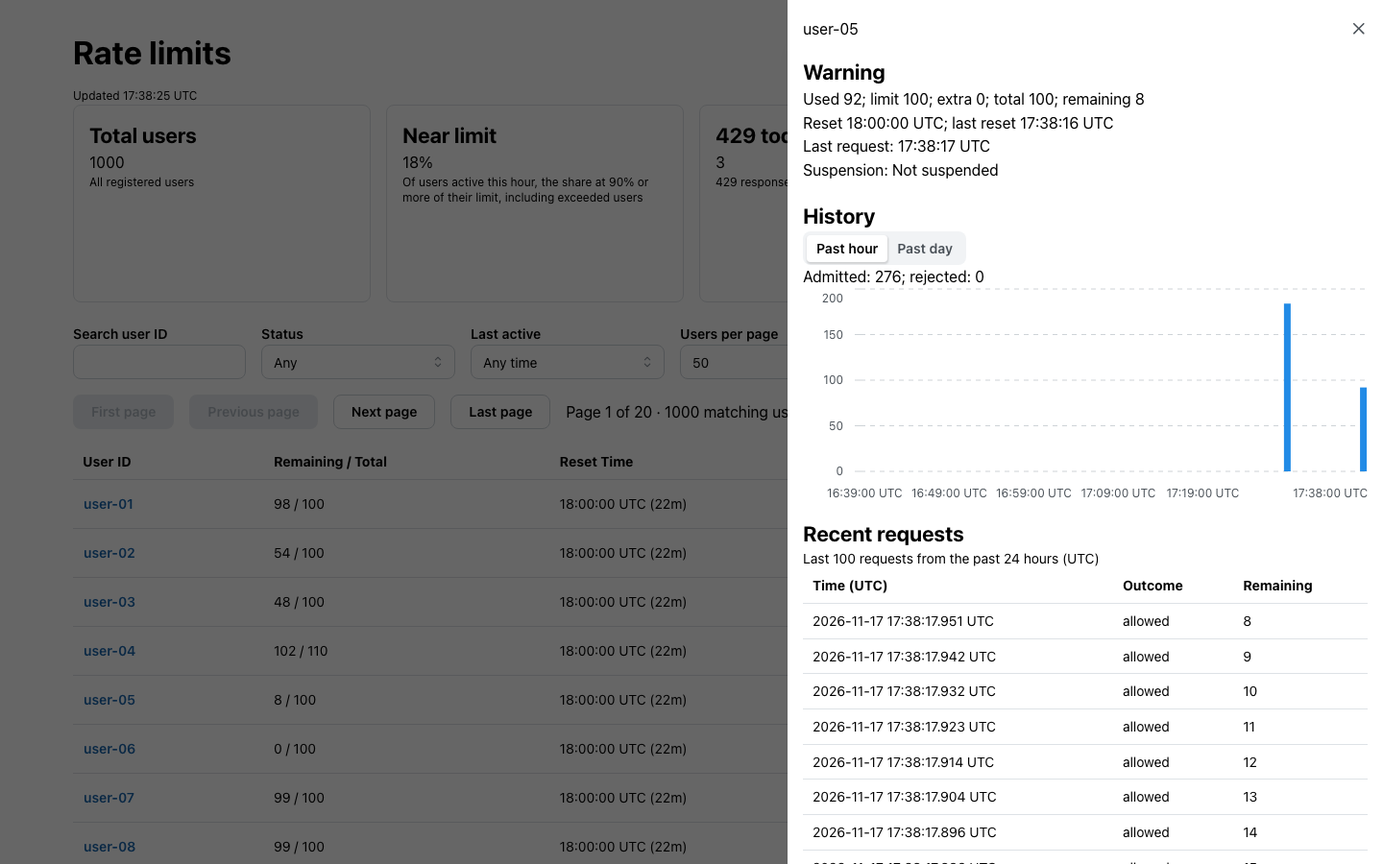
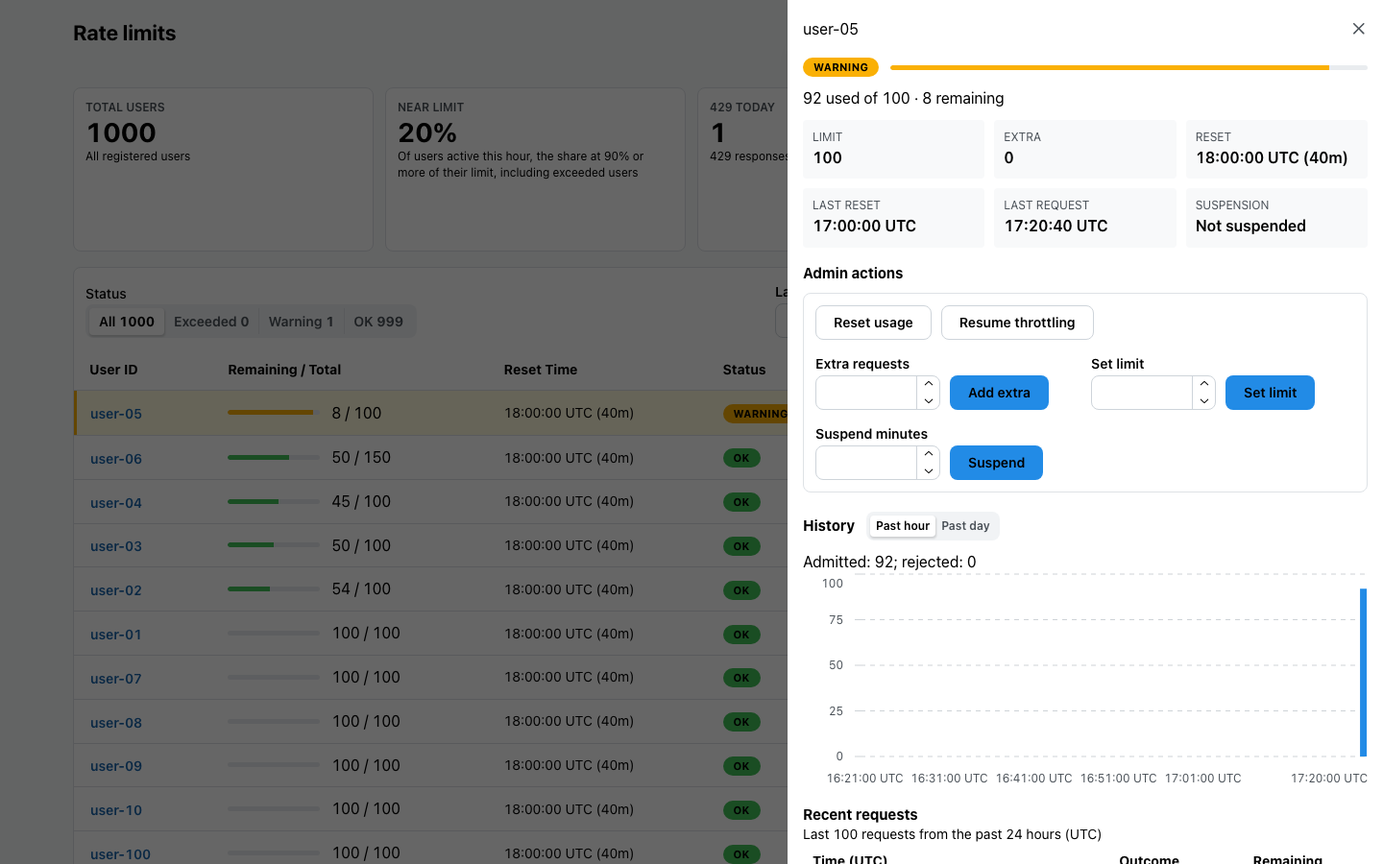
Verification record, read times and README pictures for the closest-first order
The record gains two dated sections. The branch's commits were combined
into three before its review, so its runs name the tree they ran on.

Closest-first order and row actions, at tree 5e7ea13: build, lint, both
test suites, the fixture check, the integration suite five times, the
two-process check and the population check three times each, each run
alone, and a pass of 15 items in Chromium against the built application.
The pass covers the order against the API's, the status counts, a row's
"Add extra" and "Reset usage", a failed row action with Redis paused, where
the focus goes afterwards, the held order under a resting pointer and under
keyboard focus, a 64-character ID and the error's "Dismiss" button. The
read times are taken again with the new order beside them, and the README
charts the new medians and shows the new page and panel.

Held rows, at tree 7597ca3, whose `apps`, `packages` and `scripts` are
those of the commit before this one: build, lint, both test suites (306 and
182) and the fixture check; the integration suite and the two-process check
once each, as the API is unchanged. A second agent, which did not write the
change, ran four browser checks in Chrome on a clean export of that tree: a
click that does not move still resets the user it pointed at after the row
above left the page; an open "Extra requests" field shows a grant made
elsewhere and keeps the number typed, also when the grant falls into a cut
[…]

diff --git a/docs/VERIFICATION.md b/docs/VERIFICATION.md
@@ -16,12 +16,21 @@ results only. A check that is not listed here was not run.
 | Redis        | 8.10.3 (`redis:8-alpine`), one instance in Docker, used by nothing else during the runs                                                                                                                                                                                                                                                                                                                                                                                                                                                                                                                                                                                          |
 | Browser      | Chromium 151.0.7922.34 driven by Playwright, headless, 1440 by 900 pixels                                                                                                                                                                                                                                                                                                                                                                                                                                                                                                                                                                                                        |
 
+Runs made on the branch `dashboard-triage` name the tree they ran on, as
+`git rev-parse HEAD^{tree}` printed it. The commits of that branch were
+combined into three before its review, so each of those trees is a state of
+the work as it went and not a commit of this repository.
+
 ## Automated checks
 
 Commands as in the [README](../README.md#verification), from a fresh checkout
 after `npm ci`, run one after another on a Redis server of their own. That
 server listened on another free port than the README's 6380; nothing else
-differed.
+differed. Seven of these commands were repeated on 2026-11-18 after the
+closest-first order was added; their newer results are under
+[Closest-first order and row actions](#closest-first-order-and-row-actions),
+and the table below keeps the full run. Six were run again on 2026-11-19 for
+the change under [Held rows](#held-rows).
 
 | Command                            | What it runs                                                                                                                                                                                           | Result                                                                                                                                                                                                                 |
 | ---------------------------------- | ------------------------------------------------------------------------------------------------------------------------------------------------------------------------------------------------------ | ---------------------------------------------------------------------------------------------------------------------------------------------------------------------------------------------------------------------- |
@@ -99,30 +108,38 @@ count stayed 0 and the start time stayed the same for both.
 
 ### Reads by number of users
 
-`npm run check:population`, three runs. Each figure is taken over ten
-sequential requests to one admin route, timed in the script from sending the
-request to the parsed JSON body, while one sample request every 50 ms goes to
-the same API. It is the time an admin client waits on one machine, not
-admission latency and not a load test. "Page" is `GET /api/admin/users?page=10`,
-"filter" is `?status=OK&search=user`, which matches every user and so reads
-them all, and "analytics" is `GET /api/admin/analytics`. "Seed" is the time
-to register users 1 to N in the script's own process; at 10000 it finds the
-first 1000 present and adds 9000. "Redis memory" is `used_memory` of the whole
-test server after the reads, the server's own baseline included.
+`npm run check:population`, three runs on 2026-11-18 at tree `5e7ea13`,
+with the page ordered closest to the limit beside the others. Each figure is taken over
+ten sequential requests to one admin route, timed in the script from sending
+the request to the parsed JSON body, while one sample request every 50 ms goes
+to the same API. It is the time an admin client waits on one machine, not
+admission latency and not a load test. "Page" is
+`GET /api/admin/users?page=10`, "filter" is `?status=OK&search=user`, which
+matches every user and so reads them all, "closest" is `?sort=closest`, the
+order the dashboard asks for by default, and "analytics" is
+`GET /api/admin/analytics`. "Seed" is the time to register users 1 to N in the
+script's own process; at 10000 it finds the first 1000 present and adds 9000.
+"Redis memory" is `used_memory` of the whole test server after the reads, the
+server's own baseline included.
 
-| Run | Users | Seed     | Page, median / max | Filter, median / max | Analytics, median / max | Redis memory | Sample requests, all admitted |
-| --- | ----- | -------- | ------------------ | -------------------- | ----------------------- | ------------ | ----------------------------- |
-| 1   | 1000  | 52.4 ms  | 4.5 / 9.4 ms       | 25.7 / 138.1 ms      | 23.1 / 142.4 ms         | 2,746,960 B  | 13                            |
-| 1   | 10000 | 319.1 ms | 2.9 / 4.1 ms       | 136.0 / 277.6 ms     | 128.2 / 139.3 ms        | 5,530,912 B  | 52                            |
-| 2   | 1000  | 52.5 ms  | 3.8 / 7.6 ms       | 18.6 / 41.9 ms       | 16.8 / 24.1 ms          | 2,747,592 B  | 8                             |
-| 2   | 10000 | 243.7 ms | 3.2 / 3.5 ms       | 129.6 / 315.6 ms     | 132.3 / 214.9 ms        | 5,538,744 B  | 54                            |
-| 3   | 1000  | 54.0 ms  | 3.8 / 6.0 ms       | 18.1 / 24.2 ms       | 17.7 / 33.8 ms          | 2,745,128 B  | 8                             |
-| 3   | 10000 | 358.4 ms | 2.7 / 3.3 ms       | 125.1 / 202.4 ms     | 124.6 / 147.7 ms        | 5,528,728 B  | 48                            |
+| Run | Users | Seed     | Page, median / max | Filter, median / max | Closest, median / max | Analytics, median / max | Redis memory | Sample requests, all admitted |
+| --- | ----- | -------- | ------------------ | -------------------- | --------------------- | ----------------------- | ------------ | ----------------------------- |
+| 1   | 1000  | 48.5 ms  | 3.5 / 7.9 ms       | 17.4 / 19.8 ms       | 15.7 / 25.2 ms        | 14.4 / 15.1 ms          | 2,847,048 B  | 10                            |
+| 1   | 10000 | 214.8 ms | 2.9 / 3.0 ms       | 143.4 / 190.4 ms     | 125.2 / 131.5 ms      | 130.8 / 213.2 ms        | 5,639,848 B  | 78                            |
+| 2   | 1000  | 46.1 ms  | 3.4 / 6.6 ms       | 16.8 / 23.9 ms       | 15.6 / 20.2 ms        | 17.3 / 21.7 ms          | 2,844,112 B  | 11                            |
+| 2   | 10000 | 230.9 ms | 3.7 / 3.8 ms       | 130.0 / 214.4 ms     | 131.4 / 181.4 ms      | 150.0 / 223.9 ms        | 5,639,392 B  | 83                            |
+| 3   | 1000  | 42.9 ms  | 3.4 / 6.3 ms       | 14.6 / 18.7 ms       | 14.8 / 15.1 ms        | 13.7 / 19.0 ms          | 2,842,656 B  | 9                             |
+| 3   | 10000 | 196.0 ms | 2.6 / 3.0 ms       | 129.8 / 136.9 ms     | 133.8 / 170.2 ms      | 166.0 / 196.0 ms        | 5,638,776 B  | 79                            |
 
-An unfiltered page reads only its own rows and does not grow with the number
-of users; a filtered page and the analytics read every registered user and
-took about seven times as long at ten times the users. The medians are
-charted in the [README](../README.md#verification).
+An unfiltered page in ID order reads only its own rows and does not grow with
+the number of users. A filtered page, a page ordered closest to the limit and
+the analytics read every registered user and took eight to twelve times as
+long at ten times the users. The first page in closest-first order, which
+keeps 50 rows between batches, took what a filtered page took; a page far
+down, which keeps more, was not timed. The medians are charted in the
+[README](../README.md#verification). The dashboard asks for the closest-first
+page and the analytics on every snapshot, every 10 seconds per open
+dashboard: two reads of 125 to 166 ms each at 10000 users.
 
 ## In a browser
 
@@ -164,6 +181,123 @@ The other run modes of the [README](../README.md#run-it):
 | Dashboard alone | `VITE_FIXTURES=1 npm run dev -w apps/web` with nothing on port 3000                                                                            | The token form, which any token passes; then 12 fixture rows at OK, Warning and Exceeded, the cards and "LIVE"; no request to `/api` or `/socket.io` left the browser | Pass                     |
 | One origin      | Not run by hand                                                                                                                                | The integration file `one-origin.e2e-spec.ts` serves the built page, the API and the socket from one process                                                          | Not checked in a browser |
 
+## Closest-first order and row actions
+
+Run on 2026-11-18 on the machine of
+[Revision and environment](#revision-and-environment), at tree `5e7ea13` of
+the branch `dashboard-triage`, which holds the fixes of that branch's review,
+on a Redis server of its own at port 6380. The commands and the browser
+passes ran one after another, never together: the Socket.IO adapter's
+channels are not separated by Redis database number, so a dashboard open
+while the integration suite uses the same server shows that suite's events.
+That was seen once, and that pass was thrown away and repeated.
+
+| Command                     | Result                                                                                                         |
+| --------------------------- | -------------------------------------------------------------------------------------------------------------- |
+| `npm run build`             | Exit 0, with Vite's notice about the size of the dashboard's JavaScript file as before                         |
+| `npm run lint`              | Exit 0, nothing reported                                                                                       |
+| `npm test`                  | Exit 0. API: 306 tests in 17 files passed. Dashboard: 174 tests in 15 files passed                             |
+| `npm run check:contracts`   | Exit 0, `fixtures consistent: 138 checks passed`                                                               |
+| `npm run test:integration`  | Five runs in a row, each exit 0: 84 tests in 14 files passed, in 30 to 31 s                                    |
+| `npm run check:two-process` | Three runs, each exit 0 in 3 to 4 s, printing the five lines shown under [Automated checks](#automated-checks) |
+| `npm run check:population`  | Three runs, each exit 0; figures under [Reads by number of users](#reads-by-number-of-users)                   |
+
+Not repeated: `docker compose up --build --wait` and the 14 browser items of
+[In a browser](#in-a-browser). Those items describe the page before this
+change: its "First" and "Last" paging buttons no longer exist, and the admin
+actions of item 13 now stand above the history.
+
+In Chromium at 1440 by 900 pixels, the built application
+(`node apps/api/dist/main.js`, which also serves the built dashboard: the
+"One origin" mode) on port 3040. Items 1 to 9 had 1000 users from
+`npm run seed:users -- --count 1000` and the bursts of
+`node scripts/traffic.mjs http://127.0.0.1:3040`, stopped before the pass so
+that the figures stand still. Items 10 to 15 had a fresh store with the 12
+demo users and one more whose ID has 64 characters, and sent requests between
+the steps so that one user passed another. Each observation was compared with
+the admin API's answer where one exists.
+
+| #   | Done                                                                                                                                                      | Observed                                                                                                                                                                                                                                                           | Result |
+| --- | --------------------------------------------------------------------------------------------------------------------------------------------------------- | ------------------------------------------------------------------------------------------------------------------------------------------------------------------------------------------------------------------------------------------------------------------ | ------ |
+| 1   | Signed in and read the table                                                                                                                              | "Page 1 of 20 · 1000 matching users" and 50 rows; the first five users are user-06 (Exceeded, 0 / 100), user-05 (Warning, 8 / 100), user-04, user-03 and user-02, the order `GET /api/admin/users?sort=closest` returns                                            | Pass   |
+| 2   | Read the Status choice                                                                                                                                    | "All 1000", "Exceeded 1", "Warning 1", "OK 998", as `statusCounts` of the analytics                                                                                                                                                                                | Pass   |
+| 3   | Counted the rows with controls                                                                                                                            | Two: the Exceeded and the Warning row, each with "Add extra" and "Reset usage"                                                                                                                                                                                     | Pass   |
+| 4   | "Next page", "Previous page", a search for `user-777`, the Status choice "Exceeded", "Users per page" 100                                                 | "Page 2 of 20 · 1000 matching users"; one row, user-777; one row, user-06; "Page 1 of 10 · 1000 matching users"                                                                                                                                                    | Pass   |
+| 5   | "Add extra to user-06", then "Add extra" in the field                                                                                                     | The field "Extra requests" opened holding 50 with the focus in it. Afterwards the API reports total 150, remaining 50 and status OK, the row reads 50 / 150 and OK, has lost its controls and is still first; in the next pass, after a page read, it stood second | Pass   |
+| 6   | Opened user-05                                                                                                                                            | The headings "Admin actions", "History" and "Recent requests" in that order; Escape closed the panel and returned focus to "user-05"                                                                                                                               | Pass   |
+| 7   | With the table header scrolled out of view, paused Redis and pressed Enter on "Reset usage of user-05"                                                    | "user-05: The rate limit store did not answer." at the top of the window (0 to 56 px) while the header was 56 px above it; after the unpause the focus was on "Reset usage of user-05" again                                                                       | Pass   |
+| 8   | Pressed Enter on "Reset usage of user-05" once more                                                                                                       | The row reads 100 / 100 and OK, the error is gone, and the focus is on the row's "user-05" button, as its controls no longer exist                                                                                                                                 | Pass   |
+| 9   | Read the browser console over the passes                                                                                                                  | Empty, apart from the three 503s of the deliberate pause                                                                                                                                                                                                           | Pass   |
+| 10  | By mouse only: opened user-03 by a click on its row, closed the panel with its close button, moved the pointer off the table; user-03 then passed user-02 | The focus was on "user-03" and was not keyboard focus (`:focus-visible` false); after the next page read the table showed user-03 first, as the API did                                                                                                            | Pass   |
+| 11  | Rested the pointer on the first row while user-02 passed user-03                                                                                          | After the page read the API listed user-02 first; the table kept user-03 first and showed user-02's new values, 15 / 100; when the pointer left the table, user-02 stood first at once                                                                             | Pass   |
+| 12  | Moved focus with Tab from the search field to the first row's ID while the third user passed both                                                         | Keyboard focus on "user-02"; after the page read the table kept its order; a second Tab, to the next row's ID, kept it too; a click on the page heading showed the API's order at once                                                                             | Pass   |
+| 13  | Typed a search while the pointer rested on a row                                                                                                          | The rows of the new search in the API's order for it                                                                                                                                                                                                               | Pass   |
+| 14  | Read the row and the Top users line of the user with the 64-character ID                                                                                  | In the table the ID wraps over three lines, the row is 65 px high beside 46 px, the counts and both times stay on one line and the badge reads "WARNING" in full; in Top users the ID stands in full over eight lines beside its bar and "95 / 100"                | Pass   |
+| 15  | Entered 0 in that row's "Extra requests", then pressed "Dismiss"                                                                                          | "…: Enter an integer from 1 to 10000." with the user's ID as the table's error; gone after "Dismiss"                                                                                                                                                               | Pass   |
+
+The dashboard alone (`VITE_FIXTURES=1`, port 5199), by the agents that wrote
+the views. At tree `578e5ea`, before the review fixes: milestone steps 1 to
+3 of the [dashboard specification](specs/dashboard.md#milestone) were seen as
+written, and the measured contrast of every text and its background on the
+new elements, the tinted rows and the outcome badges included, was at least
+5.69 to 1; the fixes changed none of those colours. During the fixes: a row
+hovered for 12 s, past a snapshot, kept the order, and an open "Extra
+requests" field was still open after one.
+
+Not checked for this change: any browser other than Chromium, where what
+counts as keyboard focus and whether a removed element sends a blur may
+differ; a touch screen or a pen; the page at a width below 1440 pixels; the
+held order while focus moves between two controls, for a moment without
+focus; a hold whose row leaves the page from under a resting pointer; the
+held order with 1000 users under steady traffic; a closest-first page far
+down the list, whose read keeps more rows; the dashboard at 10000 users,
+where only the read times above were taken; and the Compose image.
+
+## Held rows
+
+Run on 2026-11-19 on the machine of
+[Revision and environment](#revision-and-environment), at tree `7597ca3` of
+the branch `dashboard-triage`: a hold keeps the users and places it began
+with, and the row whose "Extra requests" field is open reads its user again.
+The change is in the dashboard only; the API is as it was at tree `5e7ea13`. The directories `apps`, `packages` and
+`scripts` of tree `7597ca3` are those of the commit that carries the change.
+
+| Command                     | Result                                                                             |
+| --------------------------- | ---------------------------------------------------------------------------------- |
+| `npm run build`             | Exit 0                                                                             |
+| `npm run lint`              | Exit 0, nothing reported                                                           |
+| `npm test`                  | Exit 0. API: 306 tests in 17 files passed. Dashboard: 182 tests in 15 files passed |
+| `npm run check:contracts`   | Exit 0, `fixtures consistent: 138 checks passed`                                   |
+| `npm run test:integration`  | One run, exit 0: 84 tests in 14 files passed, in 32 s                              |
+| `npm run check:two-process` | One run, exit 0, `200=100 429=100 other=0` among its five lines                    |
+
+In a browser, by a second agent that did not write the change: desktop Chrome
+157.0.8103.79, the built application from a clean export of that tree, each
+run with an API and a Redis container of its own, the table filtered to
+Warning. A, B, C and D are four users; each observation was compared with the
+admin API's answer.
+
+| #   | Done                                                                                                                                                               | Observed                                                                                                                                                                                                                                        | Result |
+| --- | ------------------------------------------------------------------------------------------------------------------------------------------------------------------ | ----------------------------------------------------------------------------------------------------------------------------------------------------------------------------------------------------------------------------------------------- | ------ |
+| 1   | Rested the pointer on "Reset usage" of B, the second row; A, the first, was reset elsewhere and left the page at the next read; clicked without moving the pointer | The table kept A, now OK, above B; the element at the pointer's coordinates was still B's "Reset usage"; the click sent `POST /api/admin/users/user-B/reset`; the API then reported B at 0 used and C still at 94; A went when the pointer left | Pass   |
+| 2   | Opened "Add extra" of B and typed 17 without sending; B reached 100 used and left the page; another admin call granted B 50                                        | The field stayed open with 17 in it; the row beside it read 50 / 150 and OK                                                                                                                                                                     | Pass   |
+| 3   | As 2, but the grant was made while the browser's connection to the application was cut                                                                             | "Disconnected" and 0 / 100 during the cut; once restored the browser read B's detail, showed "Live" and 50 / 150, OK, with 17 still typed, 0.35 s after the connection returned in this run                                                     | Pass   |
+| 4   | With the pointer resting on B, D entered the server's page                                                                                                         | D was not listed through that read and the next; when the pointer left the table the rows were those of the last page read, C and D                                                                                                             | Pass   |
+
+Before the change, at tree `365117b`, the same agent had seen the faults in
+the same browser: in item 1 the click sent the reset of C, and in item 2 the
+row beside the open field read 0 / 100 while a fresh tab read 50 / 150.
+
+Not checked for this change: `npm run check:population`, the integration suite
+and the two-process check more than once, the 15 browser items of
+[Closest-first order and row actions](#closest-first-order-and-row-actions),
+any browser other than Chrome, a touch screen or a pen, a hold with more than
+four users or under steady traffic, a hold across a new hour, and a failed
+detail read for an open field. In the screenshots of item 1 the columns
+stand a few pixels further right once A's values have changed, as the table
+sizes its columns by their content; the button stayed under the pointer, and
+no check bounds that movement.
+
 ## Requirements
 
 Each item of [the requirements](REQUIREMENTS.md) and where it is shown. "T"
@@ -192,7 +326,7 @@ Files are named without their directory: `*.spec.ts` under `apps/api/src`, `*.e2
 | Submission: `package.json` with dependencies and scripts                       | `npm ci`, `npm run build`, `npm run lint`, `npm test` from a fresh checkout                                                                                                               |                                                                                     |
 | Submission: a ZIP file or a link to a GitHub repository                        | This repository                                                                                                                                                                           | Sending it is the owner's step and is not claimed here                              |
 | Submission: commented code and good practices                                  | [Coding rules](CODING-RULES.md), enforced in part by lint                                                                                                                                 | A judgement for the reviewer; no test shows it                                      |
-| Expectation: every significant decision backed by reasoning and trade-offs     | [Decisions](../README.md#decisions) in the README, which links the 25 decisions of the five specifications, each with its alternatives and cost                                           | Whether the reasoning convinces is the reviewer's judgement                         |
+| Expectation: every significant decision backed by reasoning and trade-offs     | [Decisions](../README.md#decisions) in the README, which links the 26 decisions of the five specifications, each with its alternatives and cost                                           | Whether the reasoning convinces is the reviewer's judgement                         |
 | Expectation: engineering thought process                                       | The specification-first trail: a specification commit before the code in each pull request, the test plans, the review fixes in the history, and this record                              | A judgement for the reviewer                                                        |
 | Expectation: architecture                                                      | The decisions of the five specifications; the build; I; 2P                                                                                                                                |                                                                                     |
 | Expectation: scalability                                                       | 2P; P; `registry.e2e-spec.ts` (I)                                                                                                                                                         | Two processes and 10000 users on one machine; filters and analytics read every user |

diff --git a/README.md b/README.md
@@ -15,9 +15,9 @@ A per-user API rate limiter built as a NestJS interceptor, with a live React and
 
 What it is not: the tokens are demo credentials, there is one Redis without failover, live events are best effort and repaired by snapshot reads, and every check is a bounded run on one machine, without TLS and without a load test. Each specification ends in a Limits section. [What it does not do](docs/NOT-DOING.md) gathers them, with the reason for each.
 
-![The dashboard, signed in: four analytics cards (total users, share near the limit, 429 responses today, top users), the search field and filters, paging controls, and the live user table with rows at OK, Warning and Exceeded.](docs/images/dashboard.png)
+![The dashboard, signed in: four analytics cards (total users 1000, 40% near the limit, one 429 response today, the five top users with usage bars); the Status choice reading All 1000, Exceeded 1, Warning 1, OK 998 beside the Last active, Sort (Closest to limit) and search fields; and the live user table, where the Exceeded user-06 and the Warning user-05 head the list on tinted rows, each with a usage bar and the buttons Add extra and Reset usage, above the OK rows.](docs/images/dashboard.png)
 
-The dashboard with 1000 seeded users, after the demo traffic of [Try it](#try-it).
+The dashboard with 1000 seeded users, after the demo traffic of [Try it](#try-it). The users closest to their limit come first, and a row at Warning or Exceeded carries its two quickest remedies.
 
 ## Try it
 
@@ -35,9 +35,9 @@ node scripts/traffic.mjs http://127.0.0.1:3000    # five users: three OK, one Wa
 docker compose down -v              # stops both and deletes the Redis data
 ```
 
-Selecting a user opens its detail: usage and limit, the last reset, a history chart, the recent requests and, below them, the admin actions.
+Selecting a user opens its detail: status and usage, limit and reset times, the admin actions, then a history chart and the recent requests.
 
-![The detail panel of user-05 over the dashboard: status Warning, used 92 of 100, reset and last-request times, a bar chart of the past hour and the list of recent requests with their outcome and remaining quota.](docs/images/dashboard-detail.png)
+![The detail panel of user-05 over the dashboard: the badge Warning beside a usage bar, 92 used of 100 with 8 remaining, six labelled values (limit, extra, reset, last reset, last request, suspension), the admin actions Reset usage, Resume throttling, Add extra, Set limit and Suspend, then a bar chart of the past hour and the start of the recent requests.](docs/images/dashboard-detail.png)
 
 The demo values are in `.env.example`, which also explains each variable. The other run modes are under [Run it](#run-it).
 
@@ -101,6 +101,7 @@ Each decision is argued, with its alternatives and cost, in the specification it
 | Admin API     | [Each action is one transaction ending in a row read](docs/specs/admin-api.md#admin-writes-and-admission)                               | `WATCH` with retry; a lock; scripts                    | The write also queues the read                                                                                       |
 |               | [Usage, limit and grant in separate keys](docs/specs/admin-api.md#usage-limit-and-grant-apart)                                          | One counter                                            | Five commands per row read                                                                                           |
 |               | [Numbered pages, filtered by reading users in batches](docs/specs/admin-api.md#numbered-pages-filtered-by-reading-in-batches)           | A cursor; filtering in the browser; per-status indexes | Filtered pages and analytics take longer as users grow                                                               |
+|               | [Closest to the limit first, sorted on every read](docs/specs/admin-api.md#closest-to-the-limit-first-sorted-on-every-read)             | A sorted set kept by admission; sorting in the browser | Such a page reads every user, so it takes longer as users grow                                                       |
 | Live updates  | [Events carry the full row and a per-user version](docs/specs/live-updates.md#full-row-with-a-version)                                  | Events that only name a user; timestamps               | Larger messages                                                                                                      |
 |               | [One alert per window, re-armed by a generation](docs/specs/live-updates.md#one-alert-per-window-re-armed-by-a-generation)              | Deleting the flag; re-arming on a raised limit         | Lowering a limit can alert again that hour                                                                           |
 |               | [Newer means later window, then higher version](docs/specs/live-updates.md#window-then-version-snapshots-repair)                        | Last arrival wins                                      | A snapshot read every 10 s while a dashboard is visible; page membership waits for it; a bounded buffer drops events |
@@ -202,34 +203,34 @@ docker stop bouncer-test-redis
 
 Without `TEST_REDIS_URL` the first two fall back to database 1 of the Compose Redis, which nothing else may then use; the population check refuses to start.
 
-The last full run, on one laptop, at the revision the record names:
+The last runs, on one laptop, at the revisions the record names. The first five rows were repeated after the closest-first order was added, and `npm test` once more after the held rows of the table were changed; the last row is from the full run before it:
 
 | Check                                             | Result                                                                                                                                                                  |
 | ------------------------------------------------- | ----------------------------------------------------------------------------------------------------------------------------------------------------------------------- |
-| `npm test`                                        | 296 API tests in 17 files and 128 dashboard tests in 14 files passed                                                                                                    |
-| `npm run check:contracts`                         | 134 fixture checks passed                                                                                                                                               |
-| `npm run test:integration`                        | 81 tests in 14 files passed against a real Redis, five runs in a row                                                                                                    |
+| `npm test`                                        | 306 API tests in 17 files and 182 dashboard tests in 15 files passed                                                                                                    |
+| `npm run check:contracts`                         | 138 fixture checks passed                                                                                                                                               |
+| `npm run test:integration`                        | 84 tests in 14 files passed against a real Redis, five runs in a row                                                                                                    |
 | `npm run check:two-process`                       | 200 requests at once for one user over two API processes: 100 admitted, 100 rejected, 0 other; three runs                                                               |
-| `npm run check:population`                        | The list page, a filtered page and the analytics timed at 1000 and 10000 registered users; three runs                                                                   |
+| `npm run check:population`                        | The list page, a filtered page, a page ordered closest to the limit and the analytics timed at 1000 and 10000 registered users; three runs                              |
 | `docker compose up --build --wait`, then Chromium | Both containers healthy. Of 14 browser items, 12 passed; the hidden tab was not checked, and the console held one unexplained WebSocket warning after a refused sign-in |
 
 ```mermaid
 xychart-beta
     title "Tests passed, by suite"
     x-axis ["API", "Dashboard", "Integration"]
-    y-axis "Tests" 0 --> 300
-    bar [296, 128, 81]
+    y-axis "Tests" 0 --> 350
+    bar [306, 182, 84]
 ```
 
 ```mermaid
 xychart-beta
     title "Median time of one admin read, by registered users"
-    x-axis ["page 1k", "page 10k", "filtered 1k", "filtered 10k", "analytics 1k", "analytics 10k"]
-    y-axis "Milliseconds" 0 --> 150
-    bar [3.8, 2.9, 18.6, 129.6, 17.7, 128.2]
+    x-axis ["page 1k", "page 10k", "filtered 1k", "filtered 10k", "closest 1k", "closest 10k", "analytics 1k", "analytics 10k"]
+    y-axis "Milliseconds" 0 --> 175
+    bar [3.4, 2.9, 16.8, 130, 15.6, 131.4, 14.4, 150]
 ```
 
-Each bar is the median of three runs, and each run is the median of ten sequential HTTP reads of one admin route on one API process: an unfiltered page reads only its own rows and stays flat, while a filtered page and the analytics read every registered user and grow with the population. It is not admission latency and not a load test.
+Each bar is the median of three runs, and each run is the median of ten sequential HTTP reads of one admin route on one API process: an unfiltered page in ID order reads only its own rows and stays flat, while a filtered page, a page ordered closest to the limit (the dashboard's default) and the analytics read every registered user and grow with the population. It is not admission latency and not a load test.
 
 Verification covers bounded concurrency and population runs on one machine. Sustained load, more than one host and TLS were not checked; each specification's Limits section says what it does not prove.
 
